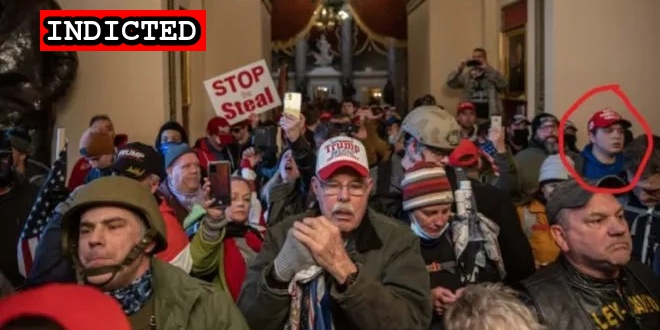
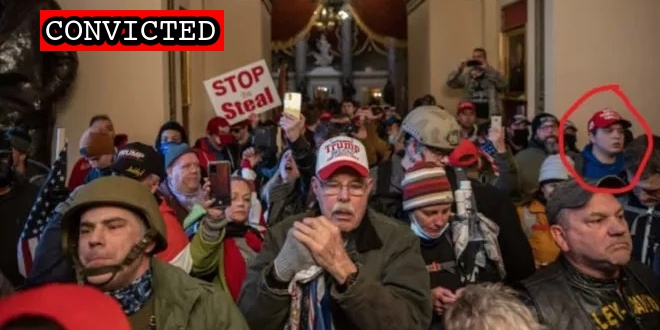
Missing convictions

Changed region(s): [[0.0606, 0.0303, 0.3636, 0.1818]]

diff --git a/docs/_suspects/alexander-sheppard.md b/docs/_suspects/alexander-sheppard.md
@@ -4,14 +4,14 @@ lastName: Sheppard
 hashtag: AlexanderSheppard
 aka:
 residence: Ohio
-status: Indicted
+status: Convicted
 date: 2021-02-24
 charged: 2021-02-24
 indicted: 2021-03-12
-convicted: 
+convicted: 2023-01-26
 acquitted:
-sentenced: 
-dismissed: 
+sentenced:
+dismissed:
 deceased:
 plea_hearing:
 trial_date: 2023-01-23
@@ -32,7 +32,7 @@ raid:
 perpwalk:
 quote:
 title: Alexander Sheppard charged on February 24, 2021
-description: Click for latest case details. Suspects innocent until proven guilty.
+description: Convicted on January 26, 2023. Click for latest case details.
 author: seditiontrack
 layout: suspect
 published: true
@@ -41,8 +41,33 @@ caseName: USA v. SHEPPARD
 judge: John D. Bates
 videos:
 charges:
+  - code: 18 USC § 1512(c)(2),2
+    title: Obstruction of an Official Proceeding (Aiding and Abetting)
+    url: https://www.law.cornell.edu/uscode/text/18/1512
+    felony: true
+  - code: 18 USC § 1752(a)(1)
+    title: Entering a restricted building or grounds
+    url: https://www.law.cornell.edu/uscode/text/18/1752
+    felony: false
+  - code: 18 USC § 1752(a)(2)
+    title: Disorderly and disruptive conduct in a restricted building or grounds
+    url: https://www.law.cornell.edu/uscode/text/18/1752
+    felony: false
+  - code: 40 USC § 5104(e)(2)(A)
+    title: Entering and Remaining on the Floor of Congress
+    url: https://www.law.cornell.edu/uscode/text/40/5104
+    felony: false
+  - code: 40 USC § 5104(e)(2)(D)
+    title: Disorderly Conduct in a Capitol Building
+    url: https://www.law.cornell.edu/uscode/text/40/5104
+    felony: false
+  - code: 40 USC § 5104(e)(2)(G)
+    title: Parading, demonstrating or picketing in a Capitol building
+    url: https://www.law.cornell.edu/uscode/text/40/5104
+    felony: false
 sentence:
 ---
+
 - [News Report](https://www.dispatch.com/story/news/crime/2021/02/23/capitol-riot-arrests-derek-jancart-columbus-ohio-social-media/4567302001/)
 - [Statement of Facts](https://www.justice.gov/usao-dc/case-multi-defendant/file/1371511/download)
 - [Indictment](https://www.justice.gov/usao-dc/case-multi-defendant/file/1377956/download)

diff --git a/docs/_suspects/audrey-southard-rumsey.md b/docs/_suspects/audrey-southard-rumsey.md
@@ -4,18 +4,18 @@ lastName: Southard Rumsey
 hashtag: UncagedBird
 aka:
 residence: Florida
-status: Indicted
+status: Convicted
 date: 2021-06-01
 charged: 2021-06-01
 indicted: 2021-06-04
-convicted:
+convicted: 2023-01-27
 acquitted:
 sentenced:
 dismissed:
 deceased:
 plea_hearing:
 trial_date: 2023-01-27
-trial_type: Jury Trial
+trial_type: Bench Trial
 jury_selection: 2023-01-19
 sentencing: 2023-06-02
 status_conference:
@@ -32,7 +32,7 @@ raid:
 perpwalk:
 quote: "Tell Pelosi we're coming for that bitch"
 title: Audrey Southard Rumsey charged on June 1, 2021
-description: Click for latest case details. Suspects innocent until proven guilty.
+description: Convicted on January 27, 2023. Click for latest case details.
 author: seditiontrack
 layout: suspect
 published: true
@@ -41,8 +41,17 @@ caseName: USA v. SOUTHARD-RUMSEY
 judge: Amit P. Mehta
 videos:
 charges:
+  - code: 18 USC § 231(a)(3)
+    title: Obstruction of Law Enforcement During Civil Disorder
+    url: https://www.law.cornell.edu/uscode/text/18/231
+    felony: true
+  - code: 18 USC § 111(a)(1)
+    title: Assaulting, resisting, or impeding certain officers or employees
+    url: https://www.law.cornell.edu/uscode/text/18/111
+    felony: true
 sentence:
 ---
+
 - [News Report](https://lawandcrime.com/u-s-capitol-siege/florida-woman-assaulted-u-s-capitol-sergeant-with-a-flagpole-and-threatened-nancy-pelosi-on-jan-6th-feds-say/)
 - [Statement of Facts](https://www.justice.gov/usao-dc/case-multi-defendant/file/1401016/download)
 - [Courthouse (Video)](https://twitter.com/nycsouthpaw/status/1400276104544493572)

diff --git a/docs/_suspects/william-nichols-jr.md b/docs/_suspects/william-nichols-jr.md
@@ -36,7 +36,7 @@ description: Click for latest case details. Suspects innocent until proven guilt
 author: seditiontrack
 layout: suspect
 published: true
-caseNumber:
+caseNumber: 1:23-mj-00019
 caseName: USA v. NICHOLS-JR
 judge:
 videos:
